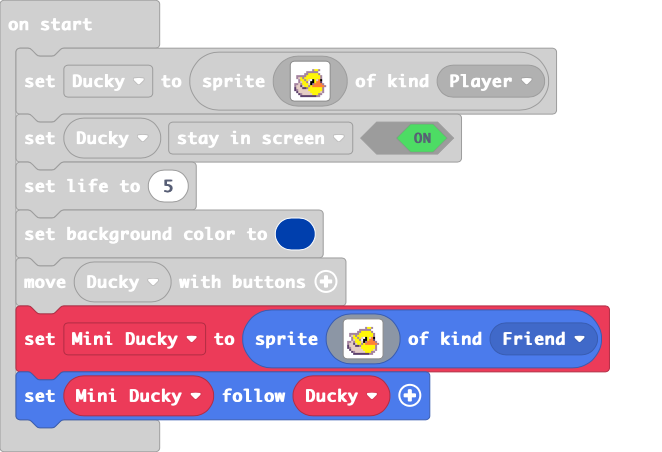
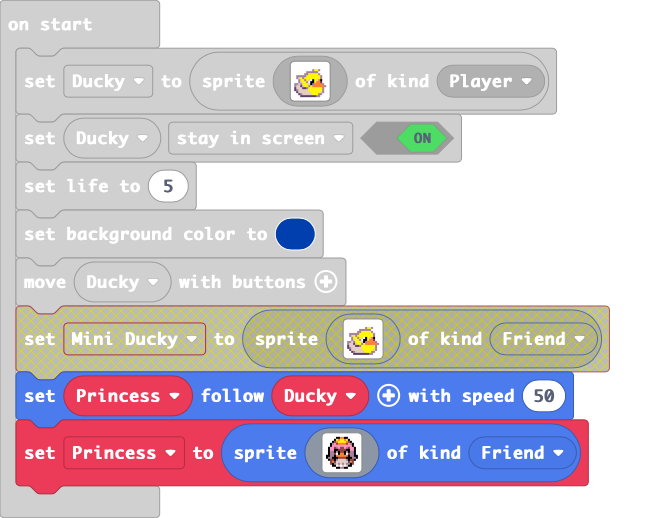
Update 1.9 Princess is here!

diff --git a/main.ts b/main.ts
@@ -88,25 +88,25 @@ Ducky.setFlag(SpriteFlag.StayInScreen, true)
 info.setLife(5)
 scene.setBackgroundColor(8)
 controller.moveSprite(Ducky)
-let Mini_Ducky = sprites.create(img`
-    . . . . . . . . . . . . . . . . 
-    . . . . . . . . . . . . . . . . 
-    . . . . . . . . . b 5 5 b . . . 
-    . . . . . . b b b b b b . . . . 
-    . . . . . b b 5 5 5 5 5 b . . . 
-    . b b b b b 5 5 5 5 5 5 5 b . . 
-    . b d 5 b 5 5 5 5 5 5 5 5 b . . 
-    . . b 5 5 b 5 d 1 f 5 d 4 f . . 
-    . . b d 5 5 b 1 f f 5 4 4 c . . 
-    b b d b 5 5 5 d f b 4 4 4 4 b . 
-    b d d c d 5 5 b 5 4 4 4 4 4 4 b 
-    c d d d c c b 5 5 5 5 5 5 5 b . 
-    c b d d d d d 5 5 5 5 5 5 5 b . 
-    . c d d d d d d 5 5 5 5 5 d b . 
-    . . c b d d d d d 5 5 5 b b . . 
-    . . . c c c c c c c c b b . . . 
+let Princess = sprites.create(img`
+    . . . . . f f 4 4 f f . . . . . 
+    . . . . f 5 4 5 5 4 5 f . . . . 
+    . . . f e 4 5 5 5 5 4 e f . . . 
+    . . f b 3 e 4 4 4 4 e 3 b f . . 
+    . . f 3 3 3 3 3 3 3 3 3 3 f . . 
+    . f 3 3 e b 3 e e 3 b e 3 3 f . 
+    . f 3 3 f f e e e e f f 3 3 f . 
+    . f b b f b f e e f b f b b f . 
+    . f b b e 1 f 4 4 f 1 e b b f . 
+    f f b b f 4 4 4 4 4 4 f b b f f 
+    f b b f f f e e e e f f f b b f 
+    . f e e f b d d d d b f e e f . 
+    . . e 4 c d d d d d d c 4 e . . 
+    . . e f b d b d b d b b f e . . 
+    . . . f f 1 d 1 d 1 d f f . . . 
+    . . . . . f f b b f f . . . . . 
     `, SpriteKind.Friend)
-Mini_Ducky.follow(Ducky)
+Princess.follow(Ducky, 50)
 game.onUpdateInterval(2000, function () {
     Batty = sprites.create(img`
         . . f f f . . . . . . . . . . . 
